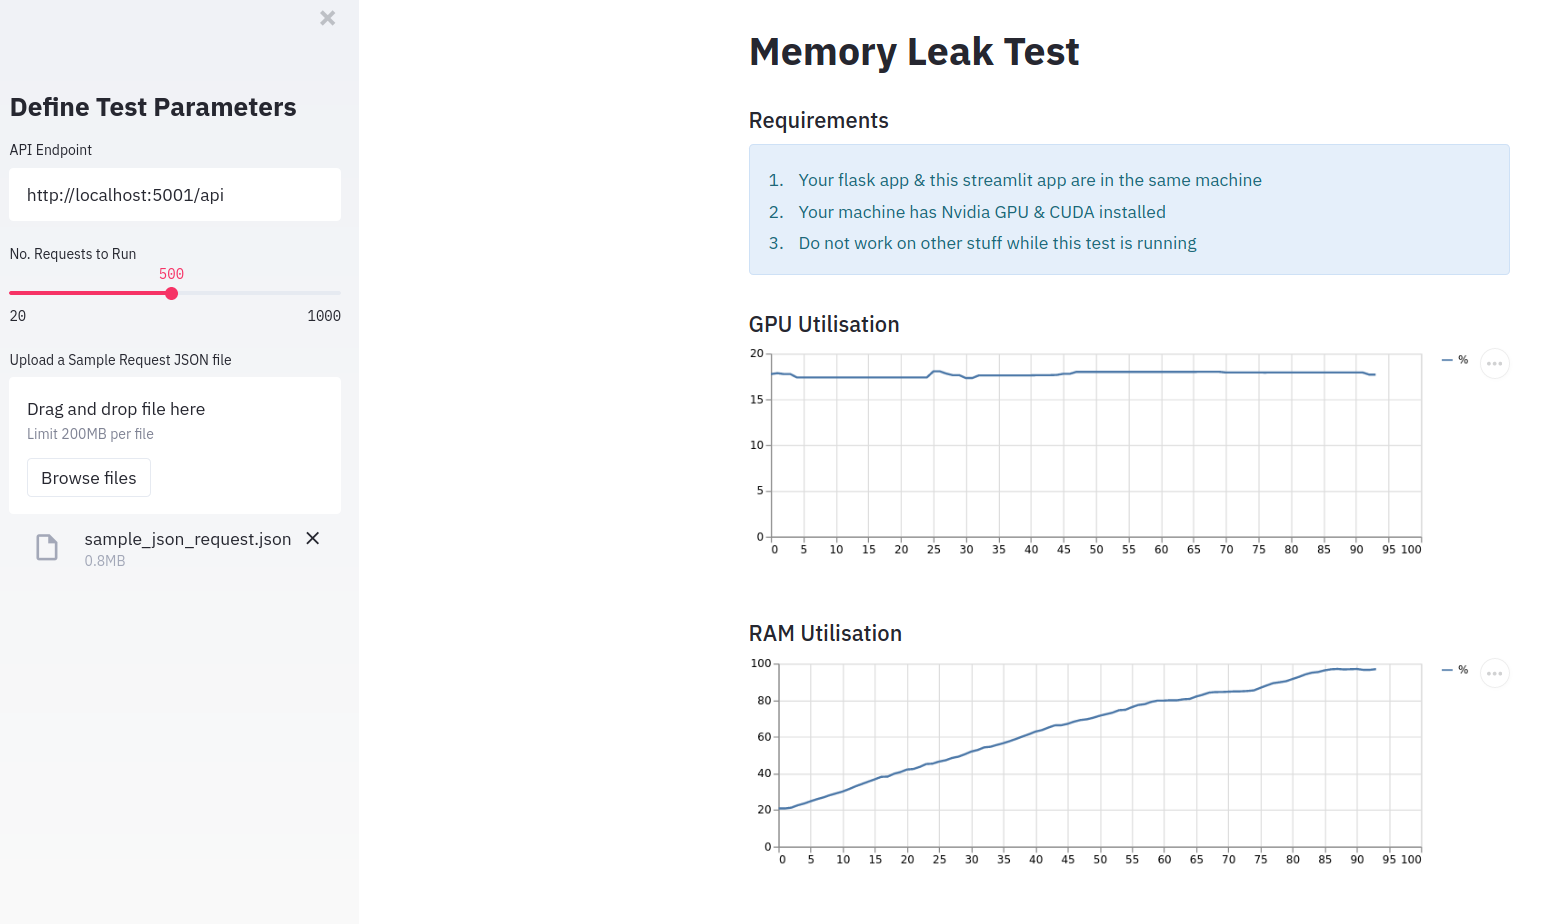
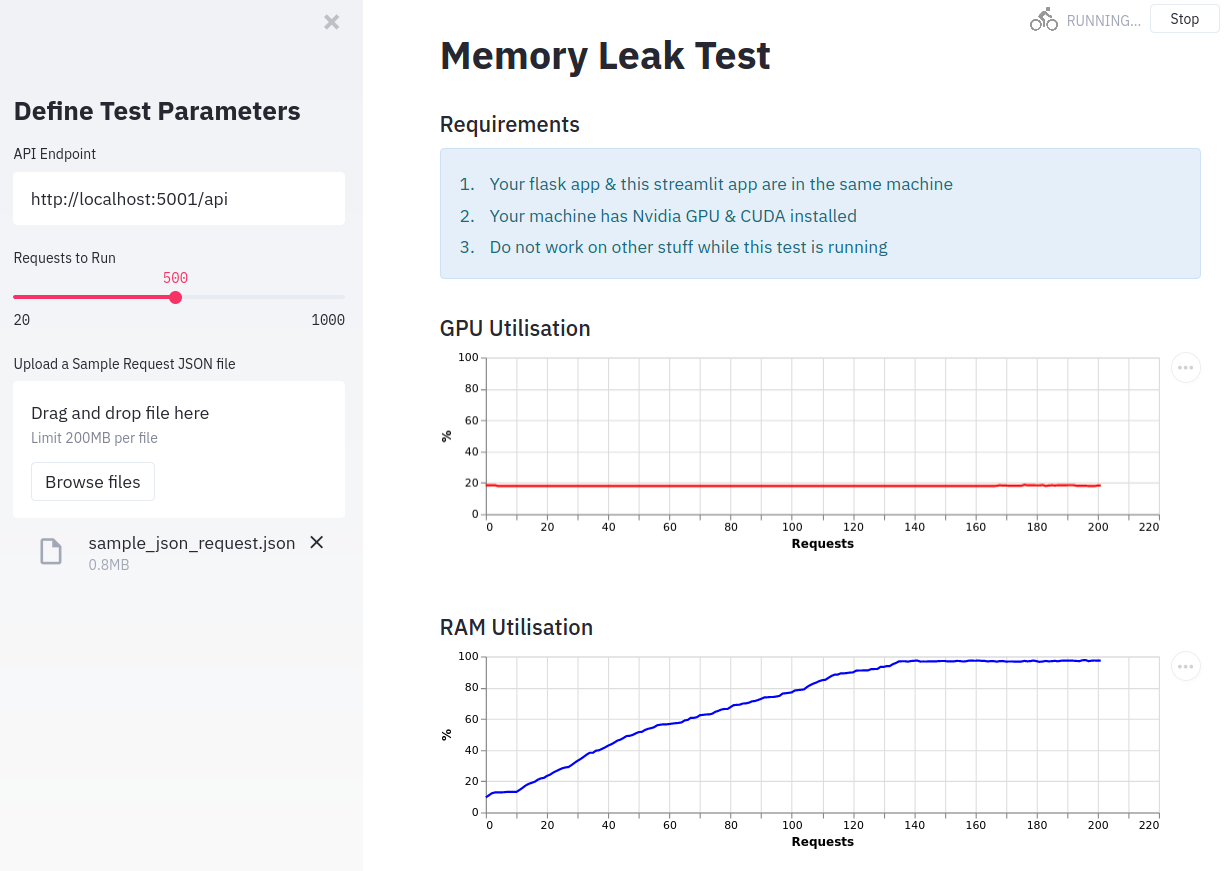
Change chart to altair

diff --git a/app.py b/app.py
@@ -8,7 +8,7 @@ import pandas as pd
 import requests
 import streamlit as st
 import nvidia_smi
-
+import altair as alt
 
 
 def gpu_memory_tracker():
@@ -31,13 +31,14 @@ def cpu_memory_tracker():
     return used_percent
 
 
-def memory_df_record(type, cnt=0):
-    df = pd.DataFrame(columns=["%"])
+def memory_df_record(type, df, cnt):
+    """append new memory data row per request to dataframe"""
     if type == "gpu":
-        row = {"%": gpu_memory_tracker()}
+        row = {"%": gpu_memory_tracker(), "Requests": cnt}
     elif type == "cpu":
-        row = {"%": cpu_memory_tracker()}
+        row = {"%": cpu_memory_tracker(), "Requests": cnt}
     df = df.append(row, ignore_index=True)
+    df["Requests"] = df["Requests"].astype("int")
     return df
 
 
@@ -48,6 +49,19 @@ def send2api(api, json_data):
     json_response = response.content.decode('utf-8')
     json_response = json.loads(json_response)
     return json_response
+
+
+def altair_mem_chart(df, color):
+    """configure altair chart"""
+    c = alt.Chart(df, height=200
+            ).mark_line(
+            ).encode(
+                alt.Y('%', scale=alt.Scale(domain=(0, 100))),
+                alt.X("Requests", axis=alt.Axis(tickMinStep=1)),
+                tooltip=["%", "Requests"]
+            ).configure_line(
+                color=color)
+    return c
 
 
 def main():
@@ -61,32 +75,34 @@ def main():
 
     st.sidebar.title("Define Test Parameters")
     api = st.sidebar.text_input("API Endpoint", value="http://localhost:5000")
-    no_requests = st.sidebar.slider("No. Requests to Run", min_value=20, max_value=1000, value=500, step=10)
+    no_requests = st.sidebar.slider("Requests to Run", min_value=20, max_value=1000, value=500, step=10)
     json_data = st.sidebar.file_uploader("Upload a Sample Request JSON file")
     
     if api != "" and json_data is not None:
       
-        # plot charts
+        # set charts frames
         st.subheader("GPU Utilisation")
-        gpu = memory_df_record("gpu")
-        gpu_chart = st.line_chart(gpu, height=250)
+        gpu_chart_row = st.empty()
 
         st.subheader("RAM Utilisation")
-        cpu = memory_df_record("cpu")
-        cpu_chart = st.line_chart(cpu, height=250)
+        cpu_chart_row = st.empty()
 
         # read json request
         json_data = json.loads(json_data.read())
+        cpu = gpu = pd.DataFrame(columns=["%", "Requests"])
 
         # send request, reload chart
         for cnt, i in enumerate(range(int(no_requests))):
-            gpu = memory_df_record("gpu")
-            gpu_chart.add_rows(gpu)
-            cpu = memory_df_record("cpu")
-            cpu_chart.add_rows(cpu)
+            gpu = memory_df_record("gpu", gpu, cnt)
+            chart = altair_mem_chart(gpu, "red")
+            gpu_chart_row.altair_chart(chart, use_container_width=True)
+
+            cpu = memory_df_record("cpu", cpu, cnt)
+            chart = altair_mem_chart(cpu, "blue")
+            cpu_chart_row.altair_chart(chart, use_container_width=True)
             
             send2api(api, json_data)
-            time.sleep(0.25)
+            time.sleep(0.2)
 
 
 if __name__ == "__main__":

diff --git a/README.md b/README.md
@@ -17,6 +17,7 @@ This streamlit app makes it easier to do all that.
 
 ## How to Use
 
+ * `streamlit run app.py`: to launch the app
  * Read the additional requirements in the UI
  * Input parameters
  * Memory leak is likely present if the utilisation keep increasing overtime.
